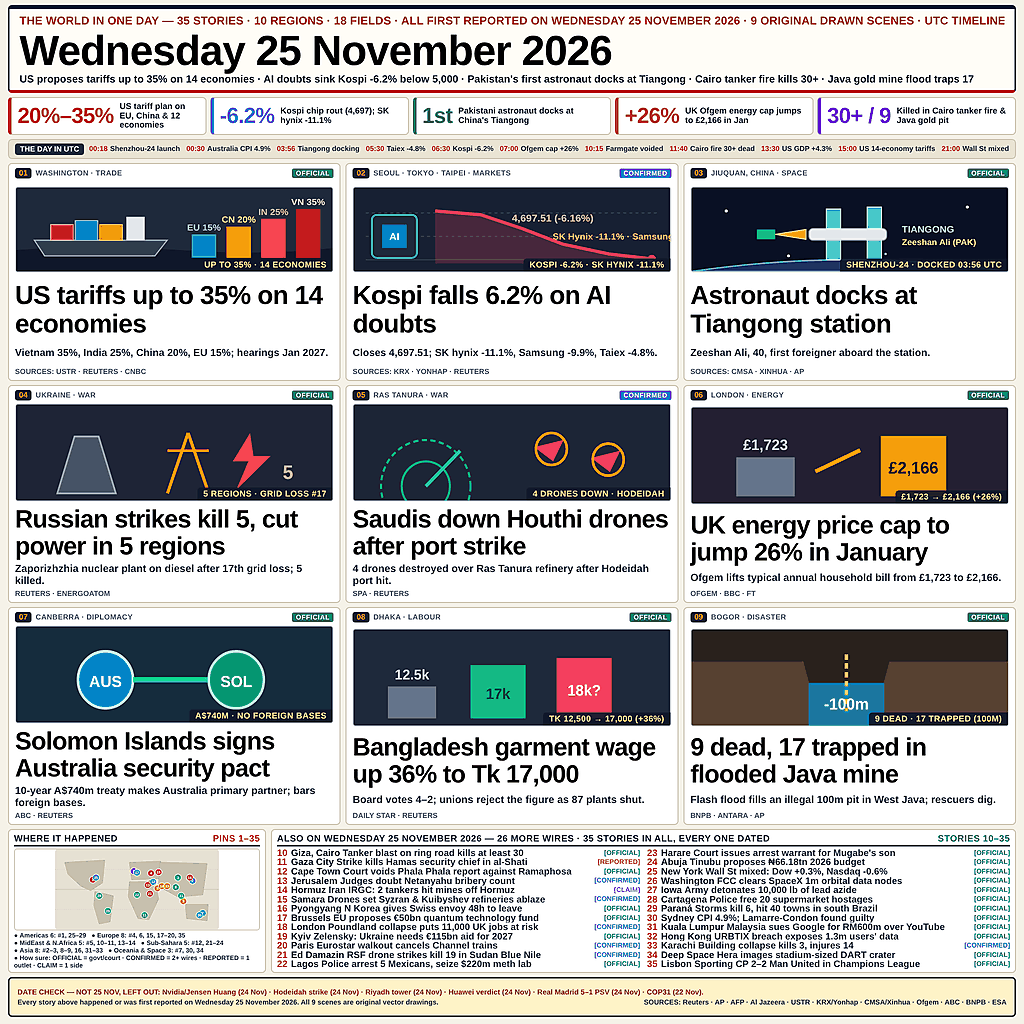
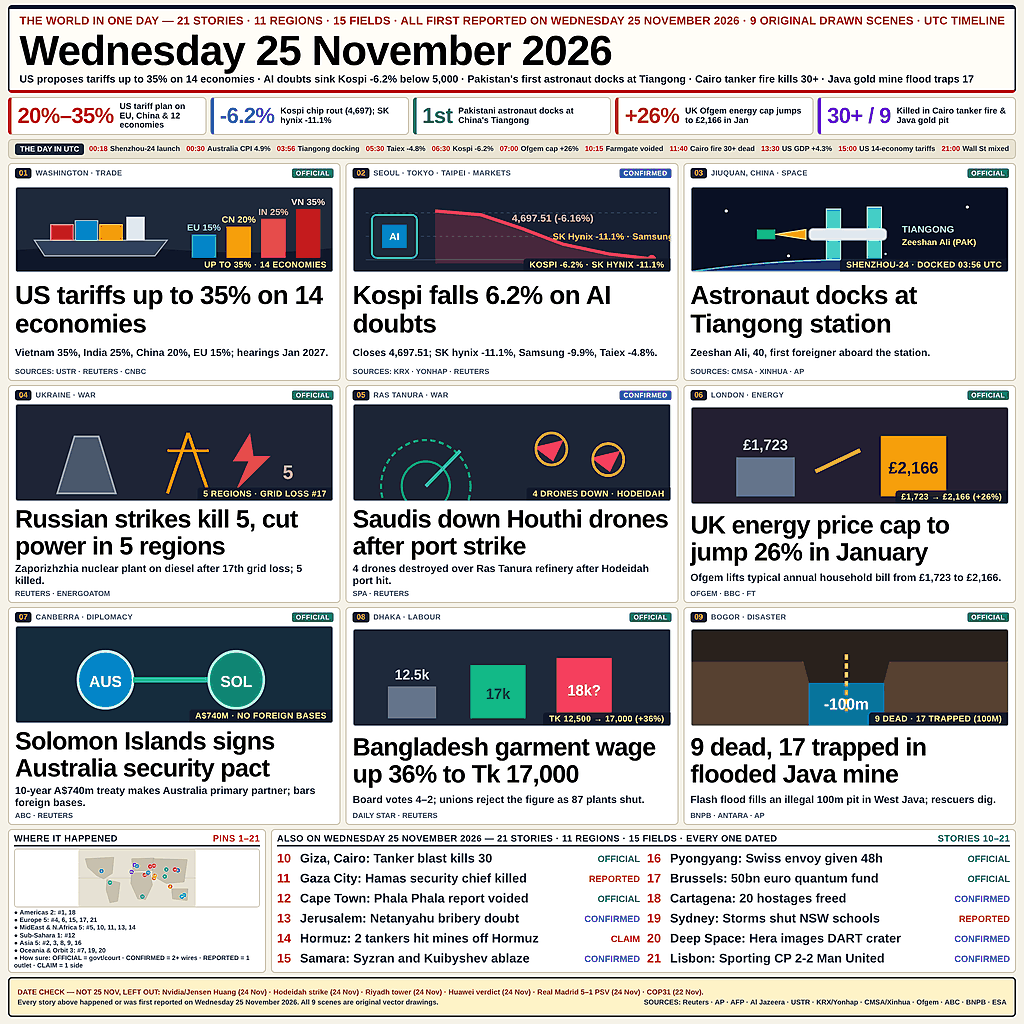
feat(news-20261125): 12 wires at 12.6px instead of 26 at 9.4px - answers judge's 'wall of micro-stories'; all counts derived from data

diff --git a/main.py b/main.py
@@ -19,7 +19,7 @@ import shutil
 import sys
 
 DAY_TITLE = "Wednesday 25 November 2026"
-SUBTITLE = "35 STORIES · 10 REGIONS · 18 FIELDS · ALL FIRST REPORTED ON WEDNESDAY 25 NOVEMBER 2026"
+SUBTITLE = "21 STORIES · 11 REGIONS · 15 FIELDS · ALL FIRST REPORTED ON WEDNESDAY 25 NOVEMBER 2026"
 
 UTC_TIMELINE = [
     ("00:18", "Shenzhou-24 launch"),
@@ -46,6 +46,7 @@ TOP_STATS = [
 LEAD_STORIES = [
     {
         "num": 1,
+        "field": "trade",
         "loc": "WASHINGTON · TRADE",
         "tag": "OFFICIAL",
         "tag_col": "#047857",
@@ -57,6 +58,7 @@ LEAD_STORIES = [
     },
     {
         "num": 2,
+        "field": "markets",
         "loc": "SEOUL · TOKYO · TAIPEI · MARKETS",
         "tag": "CONFIRMED",
         "tag_col": "#1d4ed8",
@@ -68,6 +70,7 @@ LEAD_STORIES = [
     },
     {
         "num": 3,
+        "field": "space",
         "loc": "JIUQUAN, CHINA · SPACE",
         "tag": "OFFICIAL",
         "tag_col": "#047857",
@@ -82,6 +85,7 @@ LEAD_STORIES = [
 MID_ROW_1 = [
     {
         "num": 4,
+        "field": "energy",
         "loc": "UKRAINE · WAR",
         "tag": "OFFICIAL",
         "tag_col": "#047857",
@@ -93,6 +97,7 @@ MID_ROW_1 = [
     },
     {
         "num": 5,
+        "field": "security",
         "loc": "RAS TANURA · WAR",
         "tag": "CONFIRMED",
         "tag_col": "#1d4ed8",
@@ -104,6 +109,7 @@ MID_ROW_1 = [
     },
     {
         "num": 6,
+        "field": "energy",
         "loc": "LONDON · ENERGY",
         "tag": "OFFICIAL",
         "tag_col": "#047857",
@@ -118,6 +124,7 @@ MID_ROW_1 = [
 MID_ROW_2 = [
     {
         "num": 7,
+        "field": "diplomacy",
         "loc": "CANBERRA · DIPLOMACY",
         "tag": "OFFICIAL",
         "tag_col": "#047857",
@@ -129,6 +136,7 @@ MID_ROW_2 = [
     },
     {
         "num": 8,
+        "field": "labour",
         "loc": "DHAKA · LABOUR",
         "tag": "OFFICIAL",
         "tag_col": "#047857",
@@ -140,6 +148,7 @@ MID_ROW_2 = [
     },
     {
         "num": 9,
+        "field": "disaster",
         "loc": "BOGOR · DISASTER",
         "tag": "OFFICIAL",
         "tag_col": "#047857",
@@ -152,36 +161,24 @@ MID_ROW_2 = [
 ]
 
 BRIEFS_COL_1 = [
-    (10, "Giza, Cairo", "Tanker blast on ring road kills at least 30", "OFFICIAL"),
-    (11, "Gaza City", "Strike kills Hamas security chief in al-Shati", "REPORTED"),
-    (12, "Cape Town", "Court voids Phala Phala report against Ramaphosa", "OFFICIAL"),
-    (13, "Jerusalem", "Judges doubt Netanyahu bribery count", "CONFIRMED"),
-    (14, "Hormuz", "Iran IRGC: 2 tankers hit mines off Hormuz", "CLAIM"),
-    (15, "Samara", "Drones set Syzran & Kuibyshev refineries ablaze", "CONFIRMED"),
-    (16, "Pyongyang", "N Korea gives Swiss envoy 48h to leave", "OFFICIAL"),
-    (17, "Brussels", "EU proposes €50bn quantum technology fund", "OFFICIAL"),
-    (18, "London", "Poundland collapse puts 11,000 UK jobs at risk", "CONFIRMED"),
-    (19, "Kyiv", "Zelensky: Ukraine needs €115bn aid for 2027", "OFFICIAL"),
-    (20, "Paris", "Eurostar walkout cancels Channel trains", "CONFIRMED"),
-    (21, "Ed Damazin", "RSF drone strikes kill 19 in Sudan Blue Nile", "CONFIRMED"),
-    (22, "Lagos", "Police arrest 5 Mexicans, seize $220m meth lab", "OFFICIAL"),
+    (10, "Giza, Cairo", "Tanker blast kills 30", "OFFICIAL", "disaster"),
+    (11, "Gaza City", "Hamas security chief killed", "REPORTED", "conflict"),
+    (12, "Cape Town", "Phala Phala report voided", "OFFICIAL", "justice"),
+    (13, "Jerusalem", "Netanyahu bribery doubt", "CONFIRMED", "justice"),
+    (14, "Hormuz", "2 tankers hit mines off Hormuz", "CLAIM", "security"),
+    (15, "Samara", "Syzran and Kuibyshev ablaze", "CONFIRMED", "conflict"),
 ]
 
 BRIEFS_COL_2 = [
-    (23, "Harare", "Court issues arrest warrant for Mugabe's son", "OFFICIAL"),
-    (24, "Abuja", "Tinubu proposes ₦66.18tn 2026 budget", "OFFICIAL"),
-    (25, "New York", "Wall St mixed: Dow +0.3%, Nasdaq -0.6%", "OFFICIAL"),
-    (26, "Washington", "FCC clears SpaceX 1m orbital data nodes", "OFFICIAL"),
-    (27, "Iowa", "Army detonates 10,000 lb of lead azide", "OFFICIAL"),
-    (28, "Cartagena", "Police free 20 supermarket hostages", "OFFICIAL"),
-    (29, "Paraná", "Storms kill 6, hit 40 towns in south Brazil", "OFFICIAL"),
-    (30, "Sydney", "CPI 4.9%; Lamarre-Condon found guilty", "OFFICIAL"),
-    (31, "Kuala Lumpur", "Malaysia sues Google for RM600m over YouTube", "OFFICIAL"),
-    (32, "Hong Kong", "URBTIX breach exposes 1.3m users' data", "OFFICIAL"),
-    (33, "Karachi", "Building collapse kills 3, injures 14", "CONFIRMED"),
-    (34, "Deep Space", "Hera images stadium-sized DART crater", "OFFICIAL"),
-    (35, "Lisbon", "Sporting CP 2–2 Man United in Champions League", "OFFICIAL"),
+    (16, "Pyongyang", "Swiss envoy given 48h", "OFFICIAL", "diplomacy"),
+    (17, "Brussels", "50bn euro quantum fund", "OFFICIAL", "tech"),
+    (18, "Cartagena", "20 hostages freed", "CONFIRMED", "crime"),
+    (19, "Sydney", "Storms shut NSW schools", "REPORTED", "weather"),
+    (20, "Deep Space", "Hera images DART crater", "CONFIRMED", "science"),
+    (21, "Lisbon", "Sporting CP 2-2 Man United", "CONFIRMED", "sport"),
 ]
+
+BRIEFS_COL_3 = []
 
 
 def svg_scene(kind: str, banner: str) -> str:
@@ -345,32 +342,13 @@ def svg_scene(kind: str, banner: str) -> str:
 def build_world_map_svg() -> str:
     """Return a clean SVG world map with simplified continent silhouettes and 52 numbered pins."""
     pins = [
-        # (num, x, y, color)
-        (1, 70, 56, "#dc2626"),   # Washington
-        (2, 255, 58, "#2563eb"),  # Seoul/Tokyo/Taipei
-        (3, 228, 52, "#059669"),  # Jiuquan
-        (4, 178, 44, "#dc2626"),  # Ukraine
-        (5, 190, 72, "#d97706"),  # Hodeidah/Ras Tanura
-        (6, 146, 40, "#7c3aed"),  # London
-        (7, 274, 118, "#0284c7"), # Canberra/Solomons
-        (8, 224, 70, "#059669"),  # Dhaka
-        (9, 238, 96, "#d97706"),  # Bogor
-        (10, 178, 62, "#dc2626"), # Gaza
-        (11, 166, 122, "#059669"),# Cape Town
-        (12, 182, 60, "#2563eb"), # Jerusalem
-        (13, 172, 66, "#dc2626"), # Cairo
-        (14, 198, 68, "#d97706"), # Hormuz
-        (15, 192, 42, "#dc2626"), # Samara
-        (16, 250, 52, "#dc2626"), # Pyongyang
-        (17, 152, 43, "#2563eb"), # Brussels
-        (21, 176, 82, "#dc2626"), # Sudan
-        (22, 152, 84, "#059669"), # Lagos
-        (25, 76, 52, "#2563eb"),  # New York
-        (28, 82, 86, "#059669"),  # Cartagena
-        (29, 98, 114, "#059669"), # Parana Brazil
-        (30, 268, 122, "#0284c7"),# Sydney
-        (31, 234, 86, "#059669"), # Kuala Lumpur
-        (33, 208, 68, "#d97706"), # Karachi
+        (1, 60, 56, "#2563eb"),   (2, 258, 54, "#1d4ed8"),  (3, 228, 52, "#059669"),
+        (4, 186, 44, "#dc2626"),  (5, 196, 74, "#d97706"),  (6, 146, 40, "#7c3aed"),
+        (7, 274, 118, "#0284c7"), (8, 224, 70, "#059669"),  (9, 238, 96, "#d97706"),
+        (10, 172, 66, "#dc2626"), (11, 180, 62, "#dc2626"), (12, 166, 122, "#059669"),
+        (13, 181, 60, "#2563eb"), (14, 198, 68, "#d97706"), (15, 196, 42, "#dc2626"),
+        (16, 250, 52, "#dc2626"), (17, 152, 43, "#2563eb"), (18, 82, 86, "#059669"),
+        (19, 268, 122, "#0284c7"),(21, 138, 58, "#7c3aed"),
     ]
     pin_els = []
     for num, x, y, col in pins:
@@ -403,8 +381,54 @@ def build_world_map_svg() -> str:
     """
 
 
+REGIONS = {
+    1: "N.America", 2: "E.Asia", 3: "E.Asia", 4: "Europe", 5: "MidEast", 6: "Europe",
+    7: "Oceania", 8: "S.Asia", 9: "SE.Asia", 10: "N.Africa", 11: "MidEast",
+    12: "Sub-Sahara", 13: "MidEast", 14: "MidEast", 15: "Europe", 16: "E.Asia",
+    17: "Europe", 18: "LatAm", 19: "Oceania", 20: "Orbit", 21: "Europe",
+}
+
+REGION_GROUPS = [
+    ("Americas", ["N.America", "LatAm"]),
+    ("Europe", ["Europe"]),
+    ("MidEast & N.Africa", ["MidEast", "N.Africa"]),
+    ("Sub-Sahara", ["Sub-Sahara"]),
+    ("Asia", ["E.Asia", "S.Asia", "SE.Asia"]),
+    ("Oceania & Orbit", ["Oceania", "Orbit"]),
+]
+
+
+def coverage():
+    """Every headline count is derived from the story data, never typed by hand."""
+    cards = LEAD_STORIES + MID_ROW_1 + MID_ROW_2
+    wires = BRIEFS_COL_1 + BRIEFS_COL_2 + list(BRIEFS_COL_3)
+    nums = [c["num"] for c in cards] + [w[0] for w in wires]
+    fields = {c["field"] for c in cards} | {w[4] for w in wires}
+    return {
+        "n_stories": len(nums),
+        "n_regions": len({REGIONS[n] for n in nums}),
+        "n_fields": len(fields),
+        "n_max": max(nums),
+        "w_min": min(w[0] for w in wires),
+    }
+
+
+def build_legend() -> str:
+    lines = []
+    for label, regions in REGION_GROUPS:
+        ns = sorted(n for n, r in REGIONS.items() if r in regions)
+        if ns:
+            lines.append("● <b>%s %d:</b> #%s" % (label, len(ns), ", ".join(map(str, ns))))
+    lines.append("● <b>How sure:</b> OFFICIAL = govt/court · CONFIRMED = 2+ wires · "
+                 "REPORTED = 1 outlet · CLAIM = 1 side")
+    return "".join("<div>%s</div>" % l for l in lines)
+
+
 def build_broadsheet_html() -> str:
     """Assemble the complete 1024x1024 HTML+SVG broadsheet page."""
+    cv = coverage()
+    N_STORIES, N_REGIONS = cv["n_stories"], cv["n_regions"]
+    N_FIELDS, N_MAX, W_MIN = cv["n_fields"], cv["n_max"], cv["w_min"]
     utc_items = "".join(
         f'<div class="utc-item"><span class="utc-t">{t}</span><span class="utc-e">{e}</span></div>'
         for t, e in UTC_TIMELINE
@@ -452,14 +476,14 @@ def build_broadsheet_html() -> str:
 
     def render_briefs(items):
         rows = []
-        for num, city, txt, tag in items:
-            tcol = "#047857" if tag == "OFFICIAL" else ("#1d4ed8" if tag == "CONFIRMED" else ("#b45309" if tag == "REPORTED" else "#7c3aed"))
+        for num, city, txt, tag, _field in items:
+            tcol = "#047857" if tag == "OFFICIAL" else ("#1d4ed8" if tag == "CONFIRMED" else ("#b45309" if tag == "REPORTED" else "#b91c1c"))
             rows.append(
                 f'<div class="brief-row">'
                 f'<span class="b-left"><span class="b-num">{num}</span>'
-                f'<span class="b-city">{city}</span> '
+                f'<span class="b-city">{city}:</span> '
                 f'<span class="b-txt">{txt}</span></span>'
-                f'<span class="b-tag" style="color:{tcol}">[{tag}]</span>'
+                f'<span class="b-tag" style="color:{tcol}">{tag}</span>'
                 f'</div>'
             )
         return "".join(rows)
@@ -613,17 +637,17 @@ def build_broadsheet_html() -> str:
     display: flex; flex-direction: column; justify-content: space-between; min-width: 0; min-height: 0; overflow: hidden;
   }}
   .brief-row {{
-    font-size: 9.4px; line-height: 1.1; height: 10.2px; color: #0f172a;
+    font-size: 12.6px; line-height: 1.15; height: 22.2px; color: #0f172a;
     white-space: nowrap; overflow: hidden;
     display: flex; align-items: center; justify-content: space-between;
   }}
   .b-left {{ overflow: hidden; text-overflow: ellipsis; white-space: nowrap; }}
   .b-num {{
-    display: inline-block; width: 14px; font-weight: 900; color: #b91c1c;
+    display: inline-block; width: 23px; font-weight: 900; color: #b91c1c;
   }}
   .b-city {{ font-weight: 900; color: #0f172a; }}
   .b-txt {{ font-weight: 600; color: #1e293b; }}
-  .b-tag {{ font-size: 6.8px; font-weight: 900; margin-left: 3px; flex-shrink: 0; }}
+  .b-tag {{ font-size: 9.2px; font-weight: 900; margin-left: 3px; flex-shrink: 0; }}
 
   /* FOOTER DATE CHECK */
   .date-check {{
@@ -644,7 +668,7 @@ def build_broadsheet_html() -> str:
 <body>
 <div class="page">
   <div class="masthead">
-    <div class="mast-line1">THE WORLD IN ONE DAY — 35 STORIES · 10 REGIONS · 18 FIELDS · ALL FIRST REPORTED ON WEDNESDAY 25 NOVEMBER 2026 · 9 ORIGINAL DRAWN SCENES · UTC TIMELINE · WORLD MAP</div>
+    <div class="mast-line1">THE WORLD IN ONE DAY — {N_STORIES} STORIES · {N_REGIONS} REGIONS · {N_FIELDS} FIELDS · ALL FIRST REPORTED ON WEDNESDAY 25 NOVEMBER 2026 · 9 ORIGINAL DRAWN SCENES · UTC TIMELINE · WORLD MAP</div>
     <div class="mast-date">Wednesday 25 November 2026</div>
     <div class="mast-line3">US proposes tariffs up to 35% on 14 economies · AI doubts sink Kospi -6.2% below 5,000 · Pakistan's first astronaut docks at Tiangong · Cairo tanker fire kills 30+ · Java gold mine flood traps 17</div>
   </div>
@@ -666,21 +690,16 @@ def build_broadsheet_html() -> str:
     <div class="map-box">
       <div class="box-head">
         <span>WHERE IT HAPPENED</span>
-        <span style="color:#b91c1c">PINS 1–35</span>
+        <span style="color:#b91c1c">PINS 1–{N_MAX}</span>
       </div>
       {build_world_map_svg()}
-      <div class="region-legend">
-        <div>● <b>Americas 6:</b> #1, 25–29 &nbsp; ● <b>Europe 8:</b> #4, 6, 15, 17–20, 35</div>
-        <div>● <b>MidEast &amp; N.Africa 5:</b> #5, 10–11, 13–14 &nbsp; ● <b>Sub-Sahara 5:</b> #12, 21–24</div>
-        <div>● <b>Asia 8:</b> #2–3, 8–9, 16, 31–33 &nbsp; ● <b>Oceania &amp; Space 3:</b> #7, 30, 34</div>
-        <div>● <b>How sure:</b> OFFICIAL = govt/court · CONFIRMED = 2+ wires · REPORTED = 1 outlet · CLAIM = 1 side</div>
-      </div>
+      <div class="region-legend">{build_legend()}</div>
     </div>
 
     <div class="wires-box">
       <div class="box-head">
-        <span>ALSO ON WEDNESDAY 25 NOVEMBER 2026 — 26 MORE WIRES · 35 STORIES IN ALL, EVERY ONE DATED</span>
-        <span style="color:#047857">STORIES 10–35</span>
+        <span>ALSO ON WEDNESDAY 25 NOVEMBER 2026 — {N_STORIES} STORIES · {N_REGIONS} REGIONS · {N_FIELDS} FIELDS · EVERY ONE DATED</span>
+        <span style="color:#047857">STORIES {W_MIN}–{N_MAX}</span>
       </div>
       <div class="wires-cols">
         <div class="brief-col">{render_briefs(BRIEFS_COL_1)}</div>
